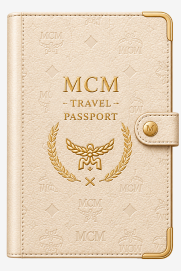
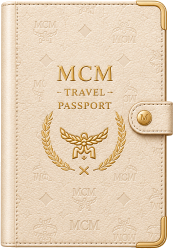
design: 여권 커버 적용

diff --git a/src/pages/home/Home.jsx b/src/pages/home/Home.jsx
@@ -13,6 +13,7 @@ import cardEmblemImage from '../../assets/home/card-emblem.png'
 import journeyCardImage from '../../assets/home/journey-card.png'
 import nfcTagImage from '../../assets/home/nfc-tag.png'
 import noteEditIcon from '../../assets/map/note-edit.svg'
+import passportClosedImage from '../../assets/home/passport-closed.png'
 import passportOpenImage from '../../assets/home/passport-open.png'
 
 /**
@@ -95,6 +96,13 @@ const JOURNEY_CARD = 'journey'
 const LAST_TAGGED_CARD = 'lastTagged'
 
 /**
+ * 여권의 첫 장은 덮인 표지다. 도장 면은 그 뒤로 이어진다.
+ *
+ * 표지를 한 장으로 세어 두면 넘기기와 아래 점이 도장 면과 똑같이 동작한다.
+ */
+const PASSPORT_COVER = 'cover'
+
+/**
  * 도장을 여권 펼침 단위로 나눈다. 한 펼침은 [왼쪽 면, 오른쪽 면] 이고
  * 각 면은 4칸이다. 남는 칸은 null 로 채워 빈 도장이 찍힌다.
  * 도장이 하나도 없어도 빈 면 한 장은 보여준다.
@@ -143,7 +151,7 @@ const Home = () => {
   const [isLoading, setIsLoading] = useState(true)
   const [tripError, setTripError] = useState('')
   const [stamps, setStamps] = useState([])
-  const [spreadIndex, setSpreadIndex] = useState(0)
+  const [pageIndex, setPageIndex] = useState(0)
   const [isEditingName, setIsEditingName] = useState(false)
   const [nameDraft, setNameDraft] = useState('')
   const [isSavingName, setIsSavingName] = useState(false)
@@ -198,7 +206,8 @@ const Home = () => {
 
   const hasPins = currentTrip?.has_pins === true
   const stampSpreads = toStampSpreads(stamps)
-  const currentSpread = stampSpreads[spreadIndex] ?? stampSpreads[0]
+  const passportPages = [PASSPORT_COVER, ...stampSpreads]
+  const currentPage = passportPages[pageIndex] ?? passportPages[0]
 
   // 진행 중인 여정이 없으면 최근 태깅한 제품 카드 한 장뿐이다.
   const journeyCards = hasPins
@@ -211,7 +220,7 @@ const Home = () => {
 
   const passportSwipe = createSwipeHandlers(
     passportSwipeStart,
-    moveWithin(setSpreadIndex, stampSpreads.length),
+    moveWithin(setPageIndex, passportPages.length),
   )
 
   const journeySwipe = createSwipeHandlers(
@@ -405,36 +414,55 @@ const Home = () => {
           </ResultCard>
         </PassportHead>
 
-        <PassportSpread {...passportSwipe}>
-          <PassportImage src={passportOpenImage} alt="" aria-hidden="true" />
+        <PassportStage {...passportSwipe}>
+          {currentPage === PASSPORT_COVER ? (
+            /* 눌러도 스와이프해도 첫 도장 면으로 넘어간다. */
+            <PassportCover
+              type="button"
+              aria-label="여권 펼치기"
+              onClick={() => setPageIndex(1)}
+            >
+              <PassportCoverImage
+                src={passportClosedImage}
+                alt=""
+                aria-hidden="true"
+              />
+            </PassportCover>
+          ) : (
+            <PassportSpread>
+              <PassportImage src={passportOpenImage} alt="" aria-hidden="true" />
 
-          <StampPages>
-            {currentSpread.map((side, sideIndex) => (
-              <StampGrid
-                key={sideIndex}
-                $side={sideIndex === 0 ? 'left' : 'right'}
-              >
-                {side.map((stamp, slotIndex) => (
-                  <Stamp
-                    key={slotIndex}
-                    src={getStampSrc(stamp?.country_code)}
-                    alt={stamp?.country_name ?? ''}
-                  />
+              <StampPages>
+                {currentPage.map((side, sideIndex) => (
+                  <StampGrid
+                    key={sideIndex}
+                    $side={sideIndex === 0 ? 'left' : 'right'}
+                  >
+                    {side.map((stamp, slotIndex) => (
+                      <Stamp
+                        key={slotIndex}
+                        src={getStampSrc(stamp?.country_code)}
+                        alt={stamp?.country_name ?? ''}
+                      />
+                    ))}
+                  </StampGrid>
                 ))}
-              </StampGrid>
-            ))}
-          </StampPages>
-        </PassportSpread>
+              </StampPages>
+            </PassportSpread>
+          )}
+        </PassportStage>
 
         <PageDots>
-          {stampSpreads.map((_, index) => (
+          {passportPages.map((page, index) => (
             <Dot
               key={index}
               type="button"
-              $active={index === spreadIndex}
-              aria-label={`여권 ${index + 1}번째 면`}
-              aria-current={index === spreadIndex}
-              onClick={() => setSpreadIndex(index)}
+              $active={index === pageIndex}
+              aria-label={
+                page === PASSPORT_COVER ? '여권 표지' : `여권 ${index}번째 면`
+              }
+              aria-current={index === pageIndex}
+              onClick={() => setPageIndex(index)}
             />
           ))}
         </PageDots>
@@ -978,15 +1006,44 @@ const ResultDescription = styled.p`
   font: 400 11px/normal var(--font-sans);
 `
 
+/* 표지와 도장 면이 같은 자리를 쓴다. 넘겨도 아래 내용이 밀리지 않는다. */
+const PassportStage = styled.div`
+  width: 100%;
+  aspect-ratio: 376 / 261;
+  /* 가로 제스처는 면 넘기기로 쓰고 세로 스크롤은 그대로 둔다. */
+  touch-action: pan-y;
+`
+
+/*
+ * 덮인 여권은 펼친 면의 오른쪽 페이지 자리에 세운다.
+ *
+ * 책을 덮으면 앞표지가 오른쪽 면 위로 포개지고, 펼치면 왼쪽으로 넘어간다.
+ */
+const PassportCover = styled.button`
+  width: 100%;
+  height: 100%;
+  padding: 0;
+  display: flex;
+  align-items: center;
+  justify-content: flex-end;
+  border: 0;
+  background: none;
+  cursor: pointer;
+`
+
+const PassportCoverImage = styled.img`
+  width: auto;
+  height: 100%;
+  object-fit: contain;
+`
+
 /* 시안 376 × 261. 안쪽 cqw 값의 기준점이라 자신에게는 cqw 를 쓰지 못한다.
    (컨테이너 단위는 조상 컨테이너를 기준으로 해 여기선 뷰포트로 잡힌다) */
 const PassportSpread = styled.div`
   position: relative;
   width: 100%;
-  aspect-ratio: 376 / 261;
+  height: 100%;
   overflow: hidden;
-  /* 가로 제스처는 면 넘기기로 쓰고 세로 스크롤은 그대로 둔다. */
-  touch-action: pan-y;
   container-type: inline-size;
 `
 
